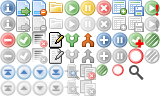
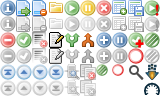
Iconic statusbar panels

Changed region(s): [[0.875, 0.6562, 1.0, 1.0]]

diff --git a/chrome/skin/manager/style.css b/chrome/skin/manager/style.css
@@ -222,25 +222,25 @@ tooltip textbox.plain {
 	margin-left: 0;
 }
 treechildren::-moz-tree-progressmeter(completed) {
-  color: #008F00 !important;
+	color: #008F00 !important;
 }
 
 treechildren::-moz-tree-progressmeter(paused) {
-  color: #FFCC00 !important;
+	color: #FFCC00 !important;
 }
 treechildren::-moz-tree-progressmeter(paused, pausedAutoretrying) {
 	color: #849FFF !important;
 }
 treechildren::-moz-tree-progressmeter(canceled) {
-  color: #B12801 !important;
+	color: #B12801 !important;
 }
 
 treechildren::-moz-tree-progressmeter(queued) {
-  color: #BFDEFF !important;
+	color: #BFDEFF !important;
 }
 
 treechildren::-moz-tree-progressmeter(inprogress) {
-  color: #AAE061 !important;
+	color: #AAE061 !important;
 }
 
 treechildren::-moz-tree-image(iconic) {
@@ -297,13 +297,13 @@ treechildren::-moz-tree-image(iconic,completed,verified) {
 	display: none;
 }
 #actions > toolbarseparator {
-  -moz-appearance: none;
-  border-top: 3px solid transparent;
-  border-bottom: 3px solid transparent;
-  border-left: 1px solid transparent;
-  border-right: 1px solid transparent;
-  -moz-border-top-colors: transparent transparent ThreeDShadow;
-  -moz-border-bottom-colors: transparent transparent ThreeDHighlight;
+	-moz-appearance: none;
+	border-top: 3px solid transparent;
+	border-bottom: 3px solid transparent;
+	border-left: 1px solid transparent;
+	border-right: 1px solid transparent;
+	-moz-border-top-colors: transparent transparent ThreeDShadow;
+	-moz-border-bottom-colors: transparent transparent ThreeDHighlight;
 }
 
 #advancedMenu {
@@ -555,17 +555,17 @@ toolbarbutton.listselectinv, menuitem#listselectinv {
 }
 
 #loadingbox {
-  opacity: 0.6;
-  background-color: -moz-Field;
+	opacity: 0.6;
+	background-color: -moz-Field;
 }
 
 #loading {
-  -moz-appearance: none;
-  -moz-user-focus: ignore;
-  border: none !important;
-  min-width: 0;
-  background-color: transparent;
-  color: -moz-fieldText;
+	-moz-appearance: none;
+	-moz-user-focus: ignore;
+	border: none !important;
+	min-width: 0;
+	background-color: transparent;
+	color: -moz-fieldText;
 
 	font-size: large;
 	font-weight: bold;
@@ -579,6 +579,10 @@ textbox.plain {
 	background-color: transparent !important;
 }
 
+/** status panels **/
+.statusbarpanel-iconic-text {
+	padding-left: 4pt;
+}
 statusbarpanel#netstatus {
 	padding-left: 4px;
 	padding-right: 6px;
@@ -587,36 +591,47 @@ statusbarpanel#netstatus {
 /* search */
 #search {
 	-moz-binding: url(chrome://dta/content/common/bindings.xml#downloadsearch);
-  width: 22ex;
+	width: 22ex;
 }
 #search > image {
-  list-style-image: url(search.png);
-  margin-right: 4px;
+	list-style-image: url(search.png);
+	margin-right: 4px;
 }
 #search > toolbarbutton {
-  margin: 0;
-  margin-left: 3px;
-  padding: 0;
-  border: 0;
-  height: 16px;
+	margin: 0;
+	margin-left: 3px;
+	padding: 0;
+	border: 0;
+	height: 16px;
 
-  cursor: default;
-  list-style-image: url(clear.png);
-  -moz-appearance: none;
-  -moz-image-region: rect(0px, 16px, 16px, 0px);
+	cursor: default;
+	list-style-image: url(clear.png);
+	-moz-appearance: none;
+	-moz-image-region: rect(0px, 16px, 16px, 0px);
 }
 #search > toolbarbutton:hover {
-  -moz-image-region: rect(0px, 16px, 16px, 0px);
+	-moz-image-region: rect(0px, 16px, 16px, 0px);
 }
 #search toolbarbutton:hover:active {
-  -moz-image-region: rect(0px, 48px, 16px, 32px);
+	-moz-image-region: rect(0px, 48px, 16px, 32px);
 }
 #search .toolbarbutton-icon {
-  -moz-margin-end: 0px !important;
+	-moz-margin-end: 0px !important;
 }
 #search > toolbarbutton[disabled] {
-  display: none;
+	display: none;
 }
+
+#statusText {
+	list-style-image: url(menu.png);
+	-moz-image-region: rect(64px,160px,80px,144px);
+}
+#statusSpeed {
+	list-style-image: url(menu.png);
+	-moz-image-region: rect(80px,160px,96px,144px);
+}
+
+
 treecol[matcher] {
 	-moz-binding: url(chrome://dta/content/common/bindings.xml#treecol-matcher);
 }

diff --git a/chrome/content/dta/manager/manager.js b/chrome/content/dta/manager/manager.js
@@ -740,9 +740,9 @@ const Dialog = {
 			}
 
 			// Refresh status bar
-			$('statusText').label = _("currentdownloadstatus", [this.completed, Tree.downloadCount, Tree.rowCount, this._running.length]);
+			$('statusText').label = _("currentdownloadstats", [this.completed, Tree.downloadCount, Tree.rowCount, this._running.length]);
 			let statusSpeed = $('statusSpeed');
-			statusSpeed.label = _("currentspeed", [speed]);
+			statusSpeed.label = speed;
 
 			// Refresh window title
 			if (this._running.length == 1 && this._running[0].totalSize > 0) {
@@ -1188,7 +1188,7 @@ const Dialog = {
 addEventListener('load', function() Dialog.init(), false);
 
 const Metalinker = {
- 	handleDownload: function ML_handleDownload(download) {
+	handleDownload: function ML_handleDownload(download) {
 		download.state = CANCELED;
 		Tree.remove(download, false);
 		let file = new FileFactory(download.destinationFile);
@@ -2349,7 +2349,7 @@ QueueItem.prototype = {
 	serialize: function() {
 		let e = {};
 		[
-		 	'fileName',
+			'fileName',
 			'postData',
 			'description',
 			'title',
@@ -2866,16 +2866,16 @@ addEventListener(
 );
 
 function CustomEvent(download, command) {
- 	try {
- 		// may I introduce you to a real bastard way of commandline parsing?! :p
- 		var uuids = {};
- 		function callback(u) {
- 			u = u.substr(1, u.length - 2);
- 			id = Utils.newUUIDString();
- 			uuids[id] = u;
- 			return id;
- 		}
- 		function mapper(arg, i) {
+	try {
+		// may I introduce you to a real bastard way of commandline parsing?! :p
+		var uuids = {};
+		function callback(u) {
+			u = u.substr(1, u.length - 2);
+			id = Utils.newUUIDString();
+			uuids[id] = u;
+			return id;
+		}
+		function mapper(arg, i) {
 			if (arg == "%f") {
 				if (i == 0) {
 					throw new Components.Exception("Will not execute the file itself");
@@ -2886,18 +2886,18 @@ function CustomEvent(download, command) {
 				arg = uuids[arg];
 			}
 			return arg;
- 		}
- 		var args = command
- 			.replace(/(["'])(.*?)\1/g, callback)
- 			.split(/ /g)
- 			.map(mapper);
- 		var program = new FileFactory(args.shift());
+		}
+		var args = command
+			.replace(/(["'])(.*?)\1/g, callback)
+			.split(/ /g)
+			.map(mapper);
+		var program = new FileFactory(args.shift());
 		var process = new Process(program);
 		process.run(false, args, args.length);
- 	}
- 	catch (ex) {
- 		Debug.log("failed to execute custom event", ex);
- 		alert("failed to execute custom event", ex);
- 	}
- 	download.complete();
+	}
+	catch (ex) {
+		Debug.log("failed to execute custom event", ex);
+		alert("failed to execute custom event", ex);
+	}
+	download.complete();
 }

diff --git a/chrome/skin/mac/buttons-fx4.css b/chrome/skin/mac/buttons-fx4.css
@@ -5,35 +5,27 @@
 #dta-turboselect-button,
 #dta-manager-button,
 .dta-toolbarbutton {
-	list-style-image: url(buttons20.png);
-}
-.dta-toolbarbutton .toolbarbutton-icon {
-  margin: 0px !important;
-  width: auto !important;
-  height: auto !important;
+	list-style-image: url(buttons16.png);
 }
 
 #dta-button {
-		-moz-image-region: rect(0px,40px,20px,20px);
+	-moz-image-region: rect(0px,32px,16px,16px);
 }
 #dta-button:hover {
-	-moz-image-region: rect(0px,20px,20px,0px);
+	-moz-image-region: rect(0px,16px,16px,0px);
 }
-
 #dta-turbo-button {
-	-moz-image-region: rect(0px,80px,20px,60px);
+	-moz-image-region: rect(0px,64px,16px,48px);
 }
 #dta-turbo-button:hover {
-	-moz-image-region: rect(0px,60px,20px,40px);
+	-moz-image-region: rect(0px,48px,16px,32px);
 }
-
 #dta-turboselect-button {
-	-moz-image-region: rect(0px,120px,20px,100px);
+	-moz-image-region: rect(0px,96px,16px,80px);
 }
 #dta-turboselect-button:hover {
-	-moz-image-region: rect(0px,100px,20px,80px);
+	-moz-image-region: rect(0px,80px,16px,64px);
 }
-
 #dta-manager-button {
-	-moz-image-region: rect(0px,140px,20px,120px);
+	-moz-image-region: rect(0px, 112px, 16px, 96px);
 }
